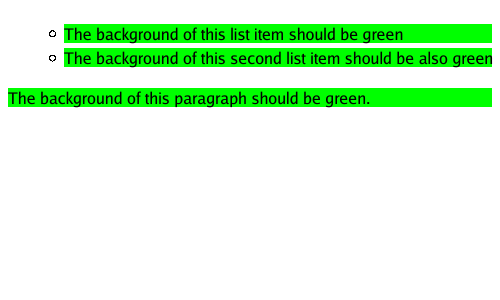
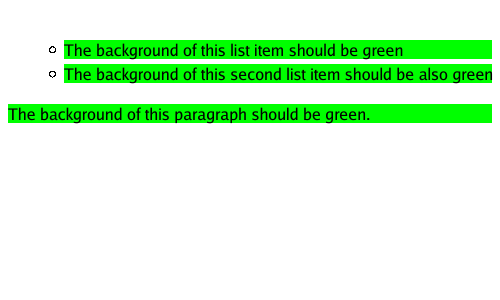
Fix newline handling (likely not complete)
1. After some elements, newlines are implied (p, ul)
2. After other elements, newlines are not implied (address, span).

Changed region(s): [[0.0, 0.06, 0.99, 0.42]]

diff --git a/html.go b/html.go
@@ -312,7 +312,15 @@ func drawNode(node *ParsedNode, sp *render.Sprite, drawzone floatgeom.Rect2) (he
 	case "span":
 		fallthrough
 	case "address":
-		fallthrough
+		if node.FirstChild != nil {
+			text := node.FirstChild.Raw.Data
+			rText, textSize, bds := formatTextAsSprite(node, drawzone, 16.0, text)
+			textVBuffer := textSize / 5 // todo: where is this from?
+			// todo: is this the background of p or the background of the text content child?
+			drawBackground(node, sp, drawzone, textSize+textVBuffer, math.MaxFloat64)
+			draw.Draw(sp.GetRGBA(), bds, rText.GetRGBA(), image.Point{}, draw.Over)
+			drawzone.Min = drawzone.Min.Add(floatgeom.Point2{float64(bds.Dx()), 0})
+		}
 	case "p":
 		if node.FirstChild != nil {
 			text := node.FirstChild.Raw.Data
@@ -348,6 +356,7 @@ func drawNode(node *ParsedNode, sp *render.Sprite, drawzone floatgeom.Rect2) (he
 		// todo: this number appears to be too big compared to firefox; I think padding doesn't take into account the bullet width
 		padding, _ := parseLength(node.Style["padding-left"])
 		childDrawzoneModifier[0] = padding
+		drawzone.Min = drawzone.Min.Add(floatgeom.Point2{0, 16})
 	case "li":
 		switch node.Raw.Parent.Data {
 		case "ul":
